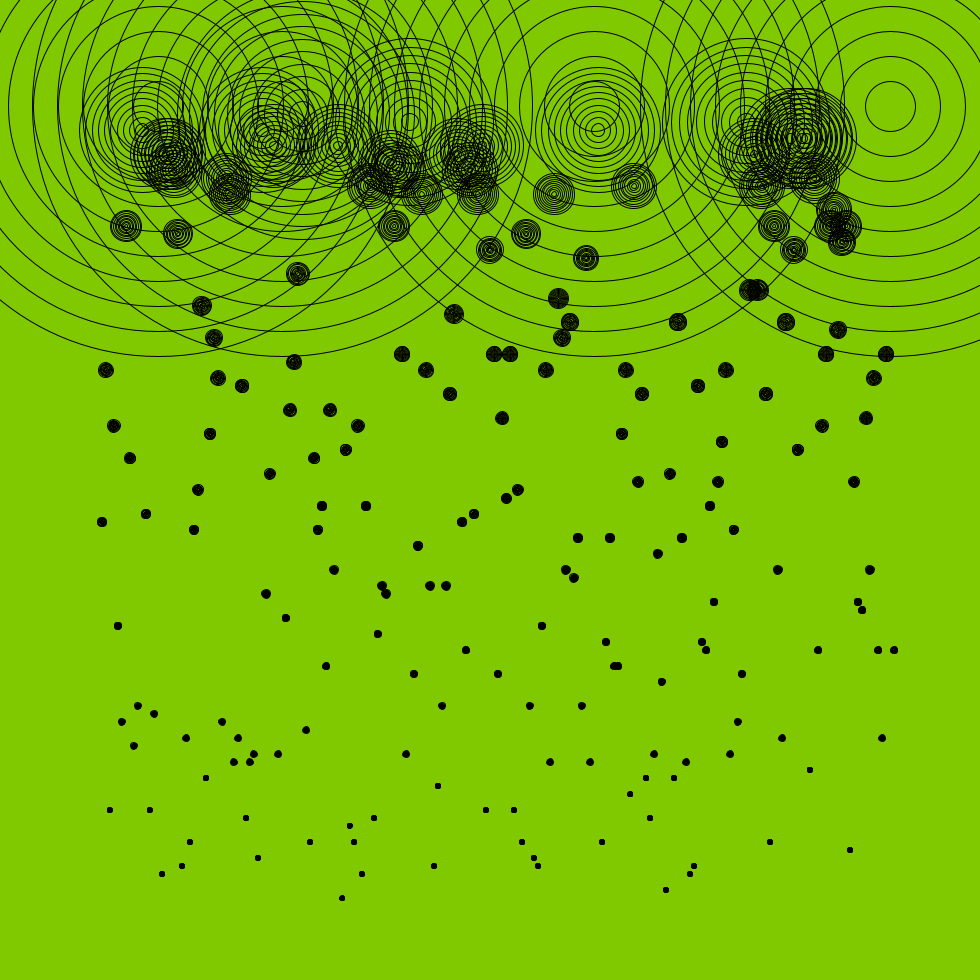
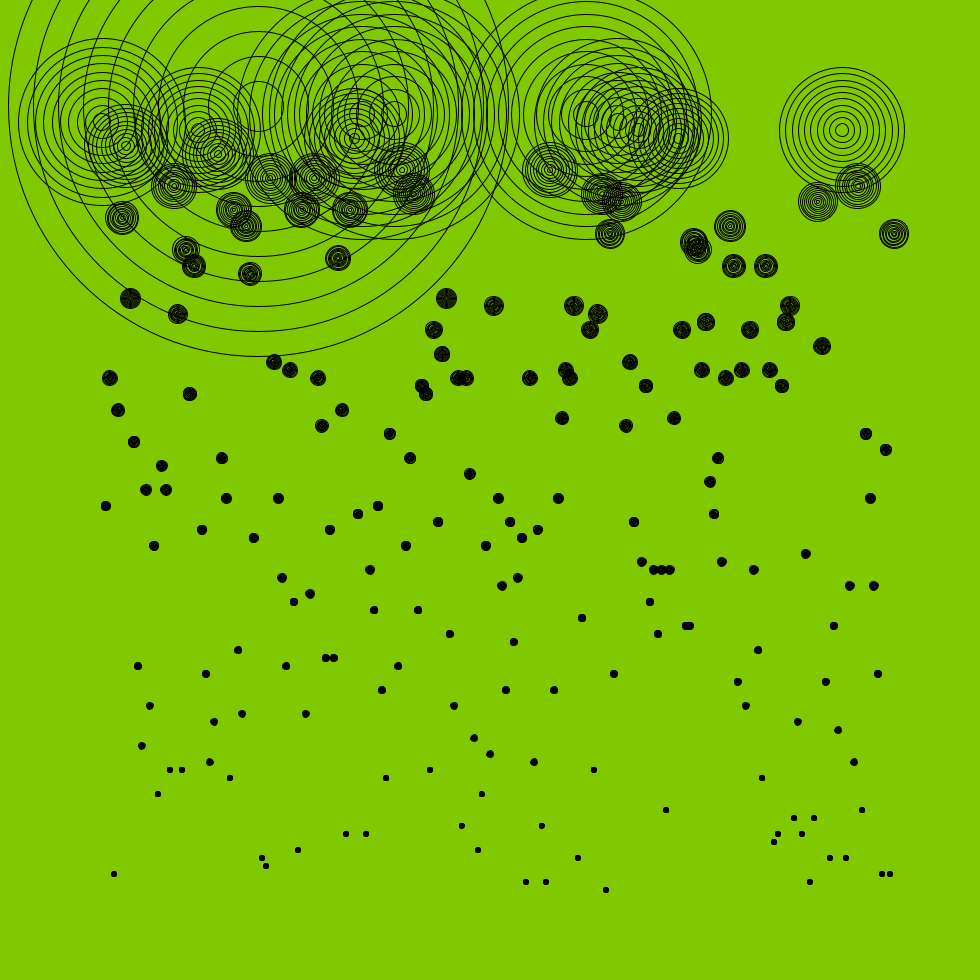
Correcting practice exercise from Unit 2 and adding practice exercise from unit 3 of the course Designing with Python: Programming for a Visual Context by Alexandre Villares

diff --git a/designing/practice_exercise_3_2.py b/designing/practice_exercise_3_2.py
@@ -1,0 +1,41 @@
+# Domestika course "Designing with Python: Programming for a Visual Context" by Alexandre Villares
+# Practice exercise 3.2
+# Student: Fernando Cardoso
+# Date: 02.08.2025
+# Tasks:
+# Starting from the grid in the previous task and using Python's conditional execution structure (if / else), 
+# create a rule that changes or stops drawing the element in some positions. 
+# It can be a deterministic rule (only odd rows columns) or with randomness (if random_int(5) == 5:)
+
+import py5
+from random import randint
+
+# Initializes the sketch window and sets up the drawing environment.
+def setup():
+    py5.size(693, 980)
+    py5.background(100, 100, 100)
+
+    cols = 10
+    rows = 15
+    offset_x = 50 # Margin from the left and right edges
+    w = (py5.width - 2*offset_x) / cols
+    offset_y = (py5.height - w*rows)/2 # Centering margin from top and bottom edges
+    for j in range(rows):
+        y = j * w + w/2 + offset_y
+        for i in range(cols):
+            x = i * w + w/2 + offset_x
+            if j % 2 == 0:
+                concentric_circles(x, y, 3, w-5*i)
+            else:
+                concentric_circles(x, y, 3, 5*i+9)
+
+def concentric_circles(x, y, n, d):
+    # Draws n concentric circles centered at (x, y) with a maximum diameter d.
+    py5.fill(232, 216, 135) # Fill color for the circles
+    py5.stroke(0)
+    for i in range(n):
+        py5.circle(x, y, d - i * d/n)
+
+
+py5.run_sketch() # Run the sketch to see the setup and draws applied.
+py5.save_frame('practice_exercise_3_2.png') # Save a snapshot of the sketch window as a PNG file.

diff --git a/designing/practice_exercise_3_3.py b/designing/practice_exercise_3_3.py
@@ -1,0 +1,41 @@
+# Domestika course "Designing with Python: Programming for a Visual Context" by Alexandre Villares
+# Practice exercise 3.3
+# Student: Fernando Cardoso
+# Date: 02.08.2025
+# Tasks:
+# Write rules for the colors of the graphic elements in your project. 
+# You can use “random” draws, you can make the color vary with the position of the element, 
+# or even link the color to the type of element that is drawn.
+
+import py5
+from random import randint
+
+# Initializes the sketch window and sets up the drawing environment.
+def setup():
+    py5.size(693, 980)
+    py5.background(0, 0, 200)
+
+    cols = 4
+    rows = 6
+    offset_x = 50 # Margin from the left and right edges
+    w = (py5.width - 2*offset_x) / cols
+    offset_y = (py5.height - w*rows)/2 # Centering margin from top and bottom edges
+    for j in range(rows):
+        y = j * w + w/2 + offset_y
+        for i in range(cols):
+            x = i * w + w/2 + offset_x
+            if j % 2 == 0:
+                concentric_circles(x, y, 4, w-5)
+            else:
+                concentric_circles(x, y, 4, w-5)
+
+def concentric_circles(x, y, n, d):
+    # Draws n concentric circles centered at (x, y) with a maximum diameter d.
+    py5.stroke(0)
+    for i in range(n):
+        py5.fill(randint(0, 255), randint(0, 255), randint(0,255))
+        py5.circle(x, y, d - i * d/n)
+
+
+py5.run_sketch() # Run the sketch to see the setup and draws applied.
+py5.save_frame('practice_exercise_3_3.png') # Save a snapshot of the sketch window as a PNG file.

diff --git a/designing/practice_exercise_3_4.py b/designing/practice_exercise_3_4.py
@@ -1,0 +1,41 @@
+# Domestika course "Designing with Python: Programming for a Visual Context" by Alexandre Villares
+# Practice exercise 3.4
+# Student: Fernando Cardoso
+# Date: 02.08.2025
+# Tasks:
+# Write rules for the colors of the graphic elements in your project. 
+# You can use “random” draws, you can make the color vary with the position of the element, 
+# or even link the color to the type of element that is drawn.
+
+import py5
+from random import randint
+
+# Initializes the sketch window and sets up the drawing environment.
+def setup():
+    py5.size(693, 980)
+    py5.background(128)
+
+    cols = 10
+    rows = 15
+    offset_x = 50 # Margin from the left and right edges
+    w = (py5.width - 2*offset_x) / cols
+    offset_y = (py5.height - w*rows)/2 # Centering margin from top and bottom edges
+    for j in range(rows):
+        y = j * w + w/2 + offset_y
+        for i in range(cols):
+            x = i * w + w/2 + offset_x
+            if j % 2 == 0:
+                concentric_circles(x, y, randint(1,4), w-5*randint(0,5))
+            else:
+                concentric_circles(x, y, 4, w-5)
+
+def concentric_circles(x, y, n, d):
+    # Draws n concentric circles centered at (x, y) with a maximum diameter d.
+    py5.stroke(0)
+    for i in range(n):
+        py5.fill(randint(0, 255))
+        py5.circle(x, y, d - i * d/n)
+
+
+py5.run_sketch() # Run the sketch to see the setup and draws applied.
+py5.save_frame('practice_exercise_3_4.png') # Save a snapshot of the sketch window as a PNG file.

diff --git a/designing/practice_exercise_3_1.py b/designing/practice_exercise_3_1.py
@@ -1,0 +1,36 @@
+# Domestika course "Designing with Python: Programming for a Visual Context" by Alexandre Villares
+# Practice exercise 3.1
+# Student: Fernando Cardoso
+# Date: 02.08.2025
+# Tasks:
+# Choose a graphic element of your choice and produce a grid repeating this element in rows and columns.
+
+import py5
+from random import randint
+
+# Initializes the sketch window and sets up the drawing environment.
+def setup():
+    py5.size(693, 980)
+    py5.background(100, 0, 100)
+
+    cols = 10
+    rows = 15
+    offset_x = 50 # Margin from the left and right edges
+    w = (py5.width - 2*offset_x) / cols
+    offset_y = (py5.height - w*rows)/2 # Centering margin from top and bottom edges
+    for j in range(rows):
+        y = j * w + w/2 + offset_y
+        for i in range(cols):
+            x = i * w + w/2 + offset_x
+            concentric_circles(x, y, 3, w)
+
+def concentric_circles(x, y, n, d):
+    # Draws n concentric circles centered at (x, y) with a maximum diameter d.
+    py5.fill(232, 216, 135) # Fill color for the circles
+    py5.stroke(0)
+    for i in range(n):
+        py5.circle(x, y, d - i * d/n)
+
+
+py5.run_sketch() # Run the sketch to see the setup and draws applied.
+py5.save_frame('practice_exercise_3_1.png') # Save a snapshot of the sketch window as a PNG file.

diff --git a/designing/practice_exercise_2_3.py b/designing/practice_exercise_2_3.py
@@ -3,9 +3,9 @@
 # Student: Fernando Cardoso
 # Date: 31.08.2025
 # Tasks:
-# Adapt one of the examples from the class "Randomness: infinite options", that is, use a repeat loop to draw a sequence of graphic elements with some type of random variation.
-
-Use the element you created in the "Define and use a new function" task.
+# Adapt one of the examples from the class "Randomness: infinite options", that is, 
+# use a repeat loop to draw a sequence of graphic elements with some type of random variation.
+# Use the element you created in the "Define and use a new function" task.
 
 import py5
 from random import randint
